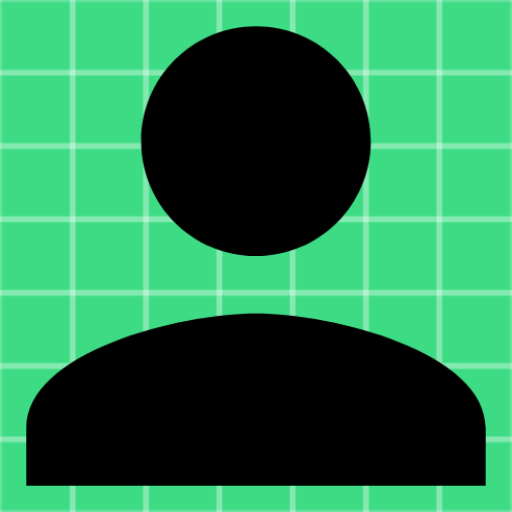
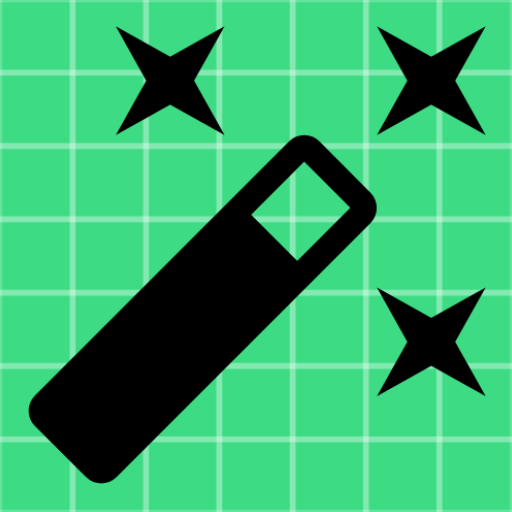
Added archievements

diff --git a/app/src/main/java/be/ehb/garbapp/Fragments/AchievementFragment.java b/app/src/main/java/be/ehb/garbapp/Fragments/AchievementFragment.java
@@ -1,0 +1,97 @@
+package be.ehb.garbapp.Fragments;
+
+import android.os.Bundle;
+
+import androidx.fragment.app.Fragment;
+import androidx.lifecycle.Observer;
+import androidx.lifecycle.ViewModelProvider;
+import androidx.recyclerview.widget.LinearLayoutManager;
+import androidx.recyclerview.widget.RecyclerView;
+
+import android.view.LayoutInflater;
+import android.view.View;
+import android.view.ViewGroup;
+import android.widget.TextView;
+
+import com.google.firebase.auth.FirebaseAuth;
+import com.google.firebase.auth.FirebaseUser;
+
+import java.util.List;
+
+import be.ehb.garbapp.Adapter.ReportAdapter;
+import be.ehb.garbapp.R;
+import be.ehb.garbapp.Report;
+import be.ehb.garbapp.ViewModel.ReportViewModel;
+import be.ehb.garbapp.databinding.FragmentAchievementBinding;
+import be.ehb.garbapp.databinding.FragmentProfileBinding;
+
+
+public class AchievementFragment extends Fragment {
+
+    private FragmentAchievementBinding binding;
+    private TextView text_Report_5_trash, text_Report_10_trash, text_Report_15_trash, text_report_points5_10, text_report_points15_35, text_report_points40_75;
+    private ReportViewModel reportViewModel;
+    private int reportCount = 0;
+
+    @Override
+    public void onCreate(Bundle savedInstanceState) {
+        super.onCreate(savedInstanceState);
+    }
+
+    @Override
+    public View onCreateView(
+
+            LayoutInflater inflater, ViewGroup container,
+            Bundle savedInstanceState
+    ) {
+        binding = FragmentAchievementBinding.inflate(inflater, container, false);
+        View root = binding.getRoot();
+
+        text_Report_5_trash = root.findViewById(R.id.Report_5_trash);
+        text_Report_10_trash = root.findViewById(R.id.Report_10_trash);
+        text_Report_15_trash = root.findViewById(R.id.Report_15_trash);
+
+        text_report_points5_10 = root.findViewById(R.id.report_points5_10);
+        text_report_points15_35 = root.findViewById(R.id.report_points15_35);
+        text_report_points40_75 = root.findViewById(R.id.report_points40_75);
+
+        reportViewModel = new ViewModelProvider(requireActivity()).get(ReportViewModel.class);
+        FirebaseUser currentUser = FirebaseAuth.getInstance().getCurrentUser();
+
+        if (currentUser != null) {
+            String userUid = currentUser.getUid();
+
+            reportViewModel.getUserTotalPoints(userUid).observe(getViewLifecycleOwner(), new Observer<Integer>() {
+                @Override
+                public void onChanged(Integer totalPoints) {
+                    updateTextViewColors(reportCount, totalPoints);
+                }
+            });
+        }
+
+
+        return root;
+    }
+
+    private void updateTextViewColors(int reportCount, int totalPoints) {
+        if (reportCount >= 5) {
+            text_Report_5_trash.setTextColor(getResources().getColor(android.R.color.holo_green_dark));
+        }
+        if (reportCount >= 10) {
+            text_Report_10_trash.setTextColor(getResources().getColor(android.R.color.holo_green_dark));
+        }
+        if (reportCount >= 15) {
+            text_Report_15_trash.setTextColor(getResources().getColor(android.R.color.holo_green_dark));
+        }
+
+        if (totalPoints >= 5 && totalPoints <= 10) {
+            text_report_points5_10.setTextColor(getResources().getColor(android.R.color.holo_green_dark));
+        }
+        if (totalPoints >= 15 && totalPoints <= 35) {
+            text_report_points15_35.setTextColor(getResources().getColor(android.R.color.holo_green_dark));
+        }
+        if (totalPoints >= 40 && totalPoints <= 75) {
+            text_report_points40_75.setTextColor(getResources().getColor(android.R.color.holo_green_dark));
+        }
+    }
+}

diff --git a/app/src/main/java/be/ehb/garbapp/ViewModel/ReportViewModel.java b/app/src/main/java/be/ehb/garbapp/ViewModel/ReportViewModel.java
@@ -15,11 +15,13 @@ import com.google.firebase.database.ValueEventListener;
 import java.util.ArrayList;
 import java.util.List;
 
+import be.ehb.garbapp.GarbUser;
 import be.ehb.garbapp.Report;
 
 public class ReportViewModel extends AndroidViewModel {
 
     DatabaseReference databaseReference;
+    DatabaseReference referenceProfile;
     private MutableLiveData<List<Report>> allReports;
 
 
@@ -27,6 +29,7 @@ public class ReportViewModel extends AndroidViewModel {
         super(application);
         allReports = new MutableLiveData<>();
         databaseReference = FirebaseDatabase.getInstance("https://garbapp-ab823-default-rtdb.europe-west1.firebasedatabase.app/").getReference("reports");
+        referenceProfile = FirebaseDatabase.getInstance("https://garbapp-ab823-default-rtdb.europe-west1.firebasedatabase.app/").getReference("Registered User");
     }
 
     public MutableLiveData<List<Report>> getAllReports() {
@@ -96,6 +99,27 @@ public class ReportViewModel extends AndroidViewModel {
         });
 
         return unapprovedReports;
+    }
+
+    public MutableLiveData<Integer> getUserTotalPoints(String userUid) {
+        MutableLiveData<Integer> totalPointsLiveData = new MutableLiveData<>();
+
+        // Assuming you have a reference to the user's data in the database
+        referenceProfile.child(userUid).addListenerForSingleValueEvent(new ValueEventListener() {
+            @Override
+            public void onDataChange(@NonNull DataSnapshot dataSnapshot) {
+                // Retrieve user data and extract total points
+                GarbUser user = dataSnapshot.getValue(GarbUser.class);
+                double totalPoints = user.getTotalPoints();
+                totalPointsLiveData.setValue((int) totalPoints);
+            }
+
+            @Override
+            public void onCancelled(@NonNull DatabaseError databaseError) {
+            }
+        });
+
+        return totalPointsLiveData;
     }
 
 }

diff --git a/app/src/main/java/be/ehb/garbapp/MainActivity.java b/app/src/main/java/be/ehb/garbapp/MainActivity.java
@@ -26,6 +26,7 @@ import android.util.Log;
 import android.view.Menu;
 import android.view.MenuItem;
 
+import be.ehb.garbapp.Fragments.AchievementFragment;
 import be.ehb.garbapp.Fragments.AdminFragment;
 import be.ehb.garbapp.Fragments.DashboardFragment;
 import be.ehb.garbapp.Fragments.MapFragment;
@@ -130,6 +131,10 @@ public class MainActivity extends AppCompatActivity {
 
                     case R.id.Home_hamburger:
                         getSupportFragmentManager().beginTransaction().replace(R.id.main_container, new MapFragment()).commit();
+                        return true;
+
+                    case R.id.Achievement_hamburger:
+                        getSupportFragmentManager().beginTransaction().replace(R.id.main_container, new AchievementFragment()).commit();
                         return true;
 
                     case R.id.Admin_hamburger:

diff --git a/app/src/main/java/be/ehb/garbapp/UploadProfilePictureActivity.java b/app/src/main/java/be/ehb/garbapp/UploadProfilePictureActivity.java
@@ -51,7 +51,6 @@ public class UploadProfilePictureActivity extends AppCompatActivity {
 
         Uri uri = firebaseUser.getPhotoUrl();
 
-        //Picasso.with(UploadProfilePictureActivity.this).load(uri).into(imageViewUploadPic);
 
         buttonUploadPicChoose.setOnClickListener(new View.OnClickListener() {
             @Override
@@ -100,7 +99,6 @@ public class UploadProfilePictureActivity extends AppCompatActivity {
                                     .setPhotoUri(downloaduri).build();
                             firebaseUser.updateProfile(profileChangeRequest);
 
-                            // Pass the image URL back to RegisterActivity
                             Intent returnIntent = new Intent();
                             returnIntent.putExtra("image_url", downloaduri.toString());
                             setResult(RESULT_OK, returnIntent);

diff --git a/app/src/main/java/be/ehb/garbapp/RegisterActivity.java b/app/src/main/java/be/ehb/garbapp/RegisterActivity.java
@@ -50,12 +50,11 @@ public class RegisterActivity extends AppCompatActivity implements View.OnClickL
         super.onCreate(savedInstanceState);
         setContentView(R.layout.activity_register);
 
-        // Initialize Picasso with a custom OkHttp3Downloader to handle HTTPS images
         Picasso.Builder builder = new Picasso.Builder(this);
         builder.downloader(new OkHttp3Downloader(this, Integer.MAX_VALUE));
         Picasso built = builder.build();
-        built.setIndicatorsEnabled(true); // Optional: Show Picasso indicator for debugging
-        built.setLoggingEnabled(true); // Optional: Enable logging for debugging
+        built.setIndicatorsEnabled(true);
+        built.setLoggingEnabled(true);
         Picasso.setSingletonInstance(built);
 
         mAuth = FirebaseAuth.getInstance();

diff --git a/app/src/main/java/be/ehb/garbapp/Fragments/ProfileFragment.java b/app/src/main/java/be/ehb/garbapp/Fragments/ProfileFragment.java
@@ -104,7 +104,6 @@ public class ProfileFragment extends Fragment {
                     double totalPoints = garbUser.getTotalPoints();
                     TvtotalPoints.setText(String.valueOf(totalPoints));
 
-                    // Load and display the profile picture using Picasso
                     String profilePictureUrl = garbUser.getProfilePictureUrl();
                     if (profilePictureUrl != null && !profilePictureUrl.isEmpty()) {
                         Picasso.get().load(profilePictureUrl).into(profile_image);
